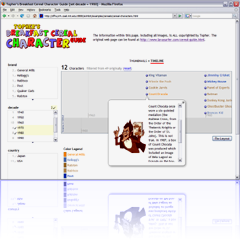
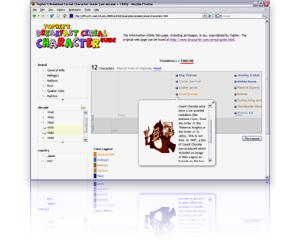
Updated home page. Better shadows and reflections.
git-svn-id: http://simile-widgets.googlecode.com/svn@303 579c892a-5248-0410-a714-2bcf037eb5bf

diff --git a/exhibit/trunk/src/webapp/index.html b/exhibit/trunk/src/webapp/index.html
@@ -18,7 +18,6 @@
             cursor:         pointer;
         }
         p.example-image {
-            background: url(images/example-shadow.png) top center no-repeat;
         }
     </style>
     <script type="text/javascript">
@@ -30,6 +29,11 @@
                 .getElementsByTagName("img")[0].src =
                     "images/example-" + example + "-" + view + ".png";
         }
+        function onExampleViewClick() {
+            var example = this.getAttribute("example");
+            var href = document.getElementById("example-" + example + "-image").getElementsByTagName("a")[0].href;
+            window.open(href, "_blank");
+        }
         function onLoad() {
             var examples = [ "cereals", "nobelists", "presidents", "publications" ];
             for (var i = 0; i < examples.length; i++) {
@@ -37,6 +41,7 @@
                 var spans = div.getElementsByTagName("span");
                 for (var j = 0; j < spans.length; j++) {
                     spans[j].onmouseover = onExampleViewMouseOver;
+                    spans[j].onclick = onExampleViewClick;
                 }
             }
         }
@@ -72,7 +77,7 @@
     <p>Check out these diverse sample <em>exhibits</em>:</p>
     
     <center style="clear: both">
-        <table width="800" border="0" cellpadding="5" class="examples" style="margin-left: 50px;">
+        <table width="700" border="0" cellpadding="5" class="examples">
             <tr align="center">
                 <td width="50%">
                     <p class="example-heading"><a href="/exhibit/examples/cereals/cereal-characters.html" target="_blank">Breakfast Cereal Characters</a></p>
@@ -96,7 +101,7 @@
                 </td>
             </tr>
         </table>
-        <table width="800" border="0" cellpadding="5" class="examples" style="margin-right: 50px;">
+        <table width="700" border="0" cellpadding="5" class="examples">
             <tr align="center">
                 <td width="50%">
                     <p class="example-heading"><a href="examples/nobelists/nobelists.html" target="_blank">MIT-related Nobel Prize Winners</a></p>
